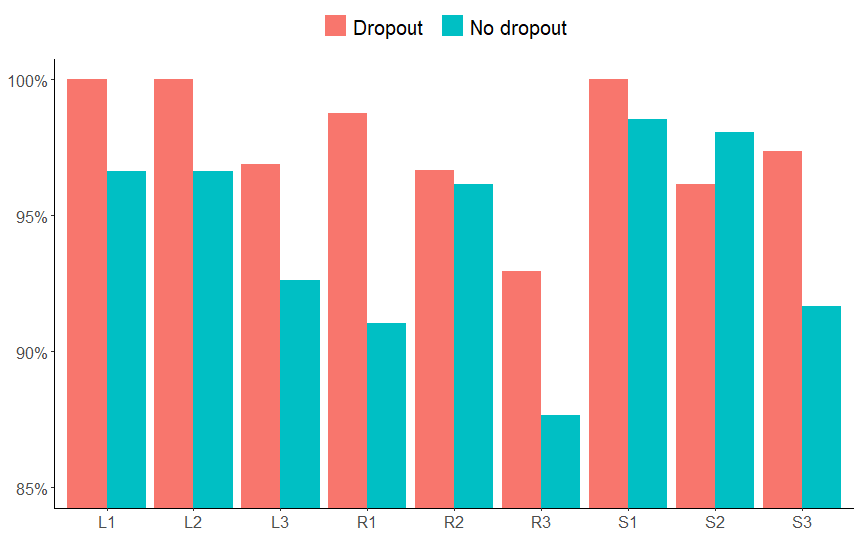
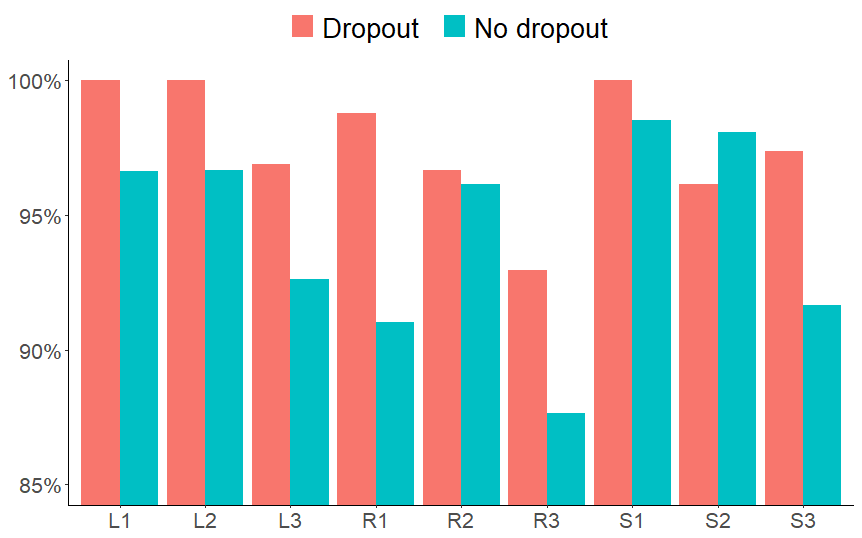
Changed wording in a few places and made text bigger on the diagram

Changed region(s): [[0.0, 0.119, 0.9954, 0.9814], [0.3318, 0.0297, 0.7239, 0.0892]]

diff --git a/documents/nips/nips_2018.tex b/documents/nips/nips_2018.tex
@@ -89,9 +89,12 @@
 \section{Introduction}
 Deep reinforcement learning methods have proven successful in solving well-defined computer games. In particular, the DDQN algorithm has achieved superhuman performance in several Atari games \cite{DQN}. However, deep RL agents are limited by their sensitivity to perturbations in the environment. They can fail catastrophically when applied to environments that differ even slightly from where they were trained.
 
-The OpenAI Gym’s CarRacing-v0 environment \cite{CarRacing} is a top-down view car racing game where the goal is to visit all tiles of the racetrack as quickly as possible. The agent receives a reward of $-0.1$ at each time step and $\frac{1000}{N}$ for each track tile visited, where $N$ is the total number of tiles in the racetrack. The state is represented by $96\times96$ RGB screenshots of the game. The game ends when the agent visits all tiles on the track or when 1000 frames have passed. This environment is considered solved by OpenAI’s guidelines when the agent achieves an average score of 900 or above over 100 consecutive games. This game is particularly challenging because the racetrack is randomly generated, which introduces stochasticity and complexity into the environment.  The challenge has been solved using a generative neural network model \cite{World_Models}, but previous attempts using deep RL methods have not been successful \cite{CarRacing1}. % cite something here.
+OpenAI Gym’s CarRacing-v0 reinforcement learning testbed \cite{CarRacing} is a is a top-down view car racing game where the goal is to visit all tiles of the racetrack as quickly as possible. The agent receives a reward of $-0.1$ at each time step and $\frac{1000}{N}$ for each track tile visited, where $N$ is the total number of tiles in the racetrack. The state is represented by $96\times96$ RGB screenshots of the game. The game ends when the agent visits all tiles on the track or when 1000 frames have passed. 
 
-In this paper, we describe a deep RL algorithm that uses a convolutional architecture with dropout that successfully solves the game. Remarkably, the model is trained on a limited environment made up of 3 tracks. This result shows that regularization methods such as dropout can mitigate the overfit usually exhibited by deep RL. To the best of our knowledge, this solution is the first to solve the challenge using deep RL.
+In this paper, we describe a deep RL algorithm that uses a convolutional architecture with dropout that successfully solves the game. Remarkably, the model is trained on a limited state space made up of 3 tracks. This result shows that regularization methods such as dropout can mitigate the overfit usually exhibited by deep RL. To the best of our knowledge, this solution is the first to solve the challenge using deep RL. The environment is considered solved by OpenAI’s guidelines when the agent achieves an average score of 900 or above over 100 consecutive games. This task is particularly challenging because the racetrack is randomly generated for each game. The environment has recently been solved using a generative neural network model \cite{World_Models}, but previous attempts using deep RL methods have not been successful \cite{CarRacing1}. 
+
+\section{Method}
+We adapted the DDQN algorithm \cite{DDQN} for our approach. The input to the Q-network is a $96\times96\times4$ tensor produced by stacking 4 consecutive frames of the game, and the output is five dimensional, corresponding to the elements of the discretized action space. As proposed in the original DQN algorithm \cite{DQN}, the architecture for the Q-network consists of 3 convolutional layers followed by 2 dense layers and an output for each of the five actions. Each hidden layer is followed by a rectified nonlinearity with dropout applied to the second convolutional layer only. We trained over a maximum of 3000 episodes corresponding to a training time of approximately 36 hours, and early stopping was used to ensure that the best performing model was selected for analysis.
 
 \begin{figure}[!h]
 \captionsetup{justification=centering}
@@ -111,13 +114,10 @@ In this paper, we describe a deep RL algorithm that uses a convolutional archite
 \end{minipage}
 \end{figure}
 
-\section{Method}
-We adapted the DDQN algorithm \cite{DDQN} for our approach. The input to the Q-network is a $96\times96\times4$ image produced by stacking 4 consecutive frames of the game while the output is five dimensional, corresponding to the elements of the discretized action space. As proposed in the original DQN algorithm \cite{DQN}, the architecture for the Q-network consists of 3 convolutional layers followed by 2 dense layers and an output for each of the 5 actions. Each hidden layer is followed by a rectified nonlinearity. Dropout is applied to the second convolutional layer. We train over a maximum of 3000 episodes and use early stopping to ensure that the best performing model is selected for analysis.
-
-We trained several models with varying observability of the state space. First, we train the model on a single racetrack. Second, we randomly alternate between 3 fixed racetracks. Third, the agent is shown random racetracks from the state space. All models are tested on random racetracks. We performed a baseline experiment with no dropout and experimented with the dropout probability. The results from the best performing models are displayed in Table \ref{tab:scores}.
+The models were trained with varying observability of the environment. We performed experiments on three different subsets of the state space: a single (fixed) racetrack; three (fixed) racetracks; randomly generated racetracks (i.e. no restriction). The models were tested on the same 100 racetracks, generated from random seeds $1$ through $100$. The results of the best performing agents from multiple training sessions corresponding to different combinations of dropout probability and state space can be seen in Table \ref{tab:scores}. 
 
 \section{Performance Analysis}
-As shown in Table \ref{tab:scores}, the average scores over 100 random games improved in all three environments when dropout was applied to the Q-network. This suggests that dropout acts as an effective regularizer by improving the agent's performance in situations it has not observed during training. In order to investigate the generalizability of these models, we developed a curve classification algorithm. Each curve in the racetrack is charactertized as either a Left, Right, or S-shaped curve. Then, the steepness of the curve is ranked from 1 to 3, where 1 represents a shallow curve and 3 represents a steep curve. For each of these different types of curves, we record the percentage of tiles cleared.  
+As shown in Table \ref{tab:scores}, the average scores over 100 random games improved in all three environments when dropout was applied to the Q-network. In order to investigate the generalizability of these models, we developed a curve classification algorithm. Each curve in the racetrack is charactertized as either a Left, Right, or S-shaped curve. Then, the steepness of the curve is ranked from 1 to 3, where 1 represents a shallow curve and 3 represents a steep curve. For each of these different types of curves, we record the percentage of tiles cleared.  
 
 \begin{table}[h!]
   \begin{center}
@@ -141,7 +141,7 @@ As shown in Table \ref{tab:scores}, the average scores over 100 random games imp
 Figure \ref{fig:curves_comparison} compares the performance of the models trained on a single racetrack. Even though both models were trained on the same racetrack, the model with dropout performed better than the model without dropout, especially on curves that the agent did not see examples of during training. This indicates that using dropout is an effective regularizer and improves the generalizability of these models.
 
 \section{Conclusion}
-We demonstrated a deep RL solution to CarRacing-v0 where the agent was trained on a limited subset of the state space. Even with partial knowledge about the environment, the agent is capable of making informed decisions. By applying dropout as a regularization technique, we improved the algorithm's ability to generalize to situations it has not observed during training. These results suggest that widespread regularization techniques such as dropout could be successfully applied to deep RL algorithms to make them more robust under partial observability of the environment. 
+We demonstrated a deep RL solution to CarRacing-v0 where the agent was trained on just three fixed racetracks. Even with about the environment, the agent is capable of making informed decisions. By applying dropout we improved the algorithm's ability to generalize to situations it has not observed during training. These results suggest that widespread regularization techniques such as dropout can be applied successfully to improve robustness of deep RL algorithms. This is especially fruitful in applications particularly prone to overfitting, such as environments where the agent has access to only a subset of the state space during training. 
 
 % -------------------------------------------------------------------------------------------------------------------
 % -------------------------------------------------------------------------------------------------------------------
@@ -489,7 +489,7 @@ See the table below for the exact architecture used in our models.
   \end{center}
 \end{table}
 
-\subsection{Action space}
+\subsection{Acetion space}
 The action space of OpenAI's CarRacing environment is the set $[-1,1] \times [0,1]^2 \subset \mathbb{R}^3$. We discretize this space into five possible actions. See the table below for more detail. 
 \begin{table}[h!]
   \begin{center}
@@ -515,7 +515,7 @@ See the table below for the training parameters that were used during training f
     \begin{tabular}{c|c}
       \textbf{Parameter} & \textbf{Value} \\
       \hline
-      Exploration rate & \begin{tabular}{@{}c@{}}Decrease from $1$ to $0.1$ linearly \\ over the first $250000$ frames, $0.1$ thereafter\end{tabular} \\
+      Exploration rate & \begin{tabular}{@{}c@{}}Decrease from $1$ to $0.1$ linearly over \\ the first $250000$ frames, $0.1$ thereafter\end{tabular} \\
       Optimizer & Default Tensorflow AdamOptimizer \\
       Learning rate & $0.00025$ \\
       Discount value & $0.99$ \\
